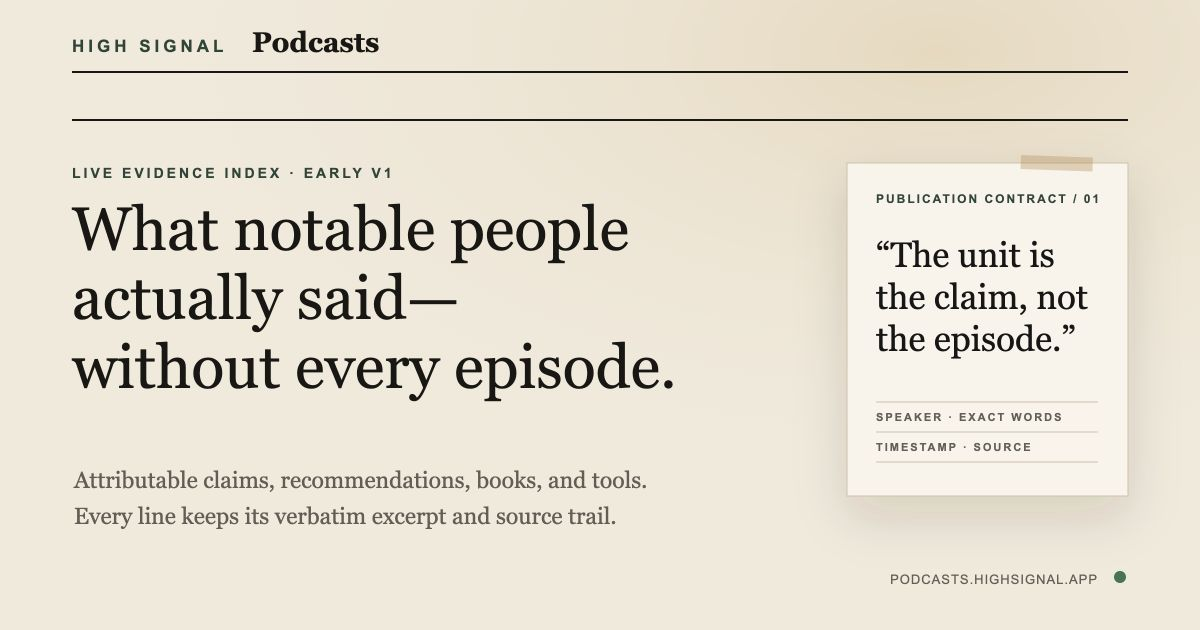
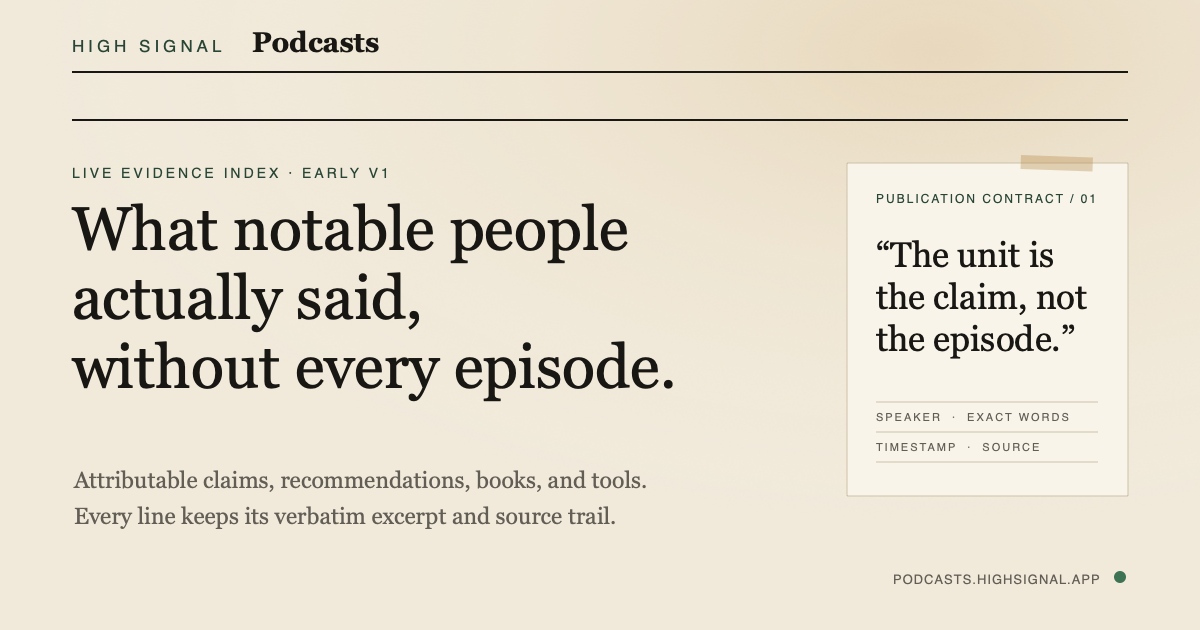
Polish public evidence copy

diff --git a/apps/web/public/index.md b/apps/web/public/index.md
@@ -4,7 +4,7 @@ description: Source-backed claims and recommendations from notable podcast guest
 canonical: https://podcasts.highsignal.app/
 ---
 
-# What notable people actually said—without listening to every episode
+# What notable people actually said, without listening to every episode
 
 High Signal Podcasts is a public evidence index of attributable claims,
 recommendations, books, and tools from notable podcast guests. The unit is the

diff --git a/apps/web/public/pricing.md b/apps/web/public/pricing.md
@@ -1,5 +1,5 @@
 ---
-title: Access and pricing — High Signal Podcasts
+title: "Access and pricing: High Signal Podcasts"
 description: Current access state for the public evidence index and read-only API.
 canonical: https://podcasts.highsignal.app/pricing.md
 ---

diff --git a/apps/web/public/methodology.md b/apps/web/public/methodology.md
@@ -1,4 +1,4 @@
-# Methodology — High Signal Podcasts
+# Methodology: High Signal Podcasts
 
 High Signal Podcasts indexes public statements as claims. A published record has
 a speaker, an assertion, a verbatim excerpt found in the stored transcript

diff --git a/apps/web/public/about.md b/apps/web/public/about.md
@@ -1,4 +1,4 @@
-# About — High Signal Podcasts
+# About: High Signal Podcasts
 
 High Signal Podcasts is a High Signal project for finding attributable ideas and
 recommendations in long public conversations. It indexes the claim rather than

diff --git a/apps/web/public/privacy.md b/apps/web/public/privacy.md
@@ -1,4 +1,4 @@
-# Privacy — High Signal Podcasts
+# Privacy: High Signal Podcasts
 
 The public website and read-only API currently require no reader account or
 profile. The product does not ask readers to submit private podcast material.

diff --git a/apps/web/public/recommendations.md b/apps/web/public/recommendations.md
@@ -1,4 +1,4 @@
-# Recommendations — High Signal Podcasts
+# Recommendations: High Signal Podcasts
 
 This surface contains books, tools, products, and other actionable references
 linked to published podcast claims and primary evidence.

diff --git a/apps/web/public/people.md b/apps/web/public/people.md
@@ -1,4 +1,4 @@
-# People — High Signal Podcasts
+# People: High Signal Podcasts
 
 The people index lists active speakers who have at least one published claim in
 the current corpus. It is not a complete guest roster.

diff --git a/apps/web/public/sources.md b/apps/web/public/sources.md
@@ -1,4 +1,4 @@
-# Sources — High Signal Podcasts
+# Sources: High Signal Podcasts
 
 The source index contains public podcast episodes that support at least one
 published claim. It is not a general podcast directory.

diff --git a/apps/web/public/search.md b/apps/web/public/search.md
@@ -1,4 +1,4 @@
-# Search — High Signal Podcasts
+# Search: High Signal Podcasts
 
 Search returns only published claims from the current evidence corpus.
 

diff --git a/apps/web/public/developers.md b/apps/web/public/developers.md
@@ -1,4 +1,4 @@
-# Public API — High Signal Podcasts
+# Public API: High Signal Podcasts
 
 Base URL: `https://api.podcasts.highsignal.app`
 

diff --git a/apps/web/public/auth.md b/apps/web/public/auth.md
@@ -1,4 +1,4 @@
-# Authentication — High Signal Podcasts
+# Authentication: High Signal Podcasts
 
 ## Public website and API
 
